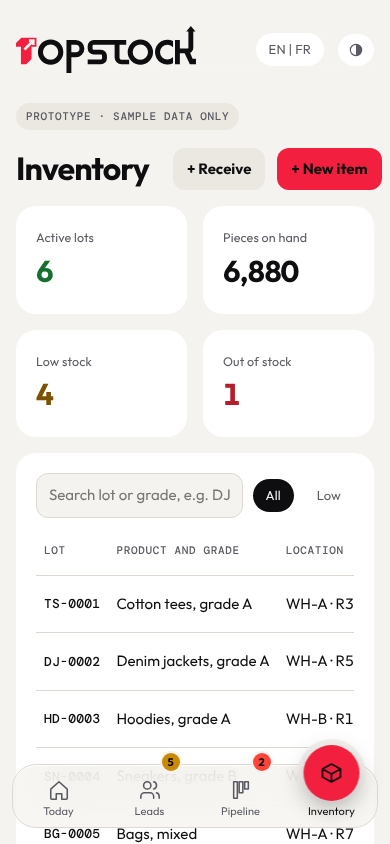
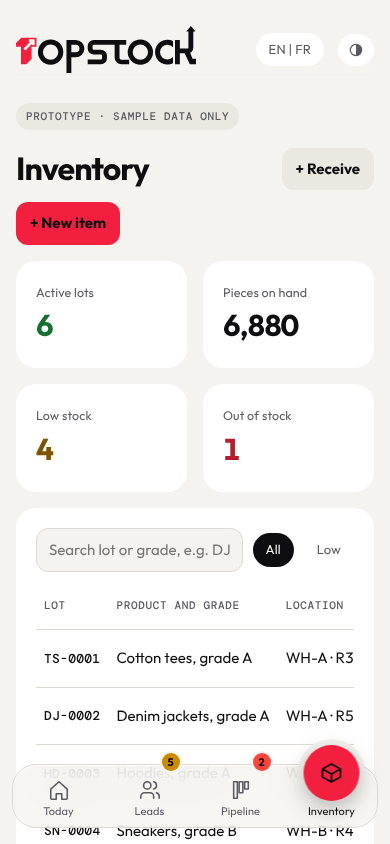
Prototype v4.3: labelled stock status, phone header wrap, units
Claude-Session: https://claude.ai/code/session_017iY13emXgm4frkkmSZrEnt

diff --git a/docs/prototype/topstock-crm-prototype.html b/docs/prototype/topstock-crm-prototype.html
@@ -200,6 +200,7 @@ td.n .sb{margin-left:auto}
 .proto{padding:5px 10px;margin-bottom:18px}
 .sign{margin:28px 4px 0;color:var(--t2);font-size:.875rem}
 .btn{white-space:nowrap}
+#v-inv>div:first-child{flex-wrap:wrap;row-gap:10px} /* title row wraps instead of overflowing while the font loads */
 /* small text on red is TopStock Black (brand rule; white on red is 3.4:1) */
 .outs .chip.c4.on,.nb{color:var(--onred)}
 #v-inv .wrap table{min-width:640px}#v-inv td:nth-child(2),#v-inv td:nth-child(3){white-space:nowrap} /* scroll the stock table inside its card on phones instead of squeezing the grade column */
@@ -309,7 +310,7 @@ const L=[
 const tm=z=>new Date().toLocaleTimeString([], {timeZone:z,hour:'2-digit',minute:'2-digit'});
 const ini=n=>n.split(' ').map(x=>x[0]).join('');
 const TLs={};let sel=0,tab='Summary';
-const tl=i=>TLs[i]||(TLs[i]=[['Email','Sent price list and MOQ terms','Yesterday'],['Call','Connected · 6 min · interested in samples','2 days ago'],['Note','Prefers cartons, payment on delivery','Last week']]);
+const tl=i=>TLs[i]||(TLs[i]=[['Email','Sent price list and MOQ terms','Yesterday'],['Call','Connected · 6 min · interested in samples','2 days ago'],['Note','Prefers mixed lots, payment on delivery','Last week']]);
 function renderList(){$('#list').innerHTML='<h2>Leads <span class="muted">· 30,000</span></h2>'+L.map((l,i)=>`<div class="row ${i==sel?'sel':''}" onclick="pick(${i})"><div class="av ${l.t}">${ini(l.n)}</div><div style="flex:1"><b>${l.n}</b><br><small>${l.c}</small></div><span class="badge ${l.t}"><span class="dot"></span>${l.t}</span></div>`).join('')}
 function renderProf(){const l=L[sel];
 $('#prof').innerHTML=`<div style="display:flex;gap:16px;align-items:center"><div class="av" style="width:64px;height:64px;font-size:1.25rem">${ini(l.n)}</div><div style="flex:1"><div style="font-size:1.5rem;font-weight:700;letter-spacing:-.02em">${l.n}</div><div class="muted">${l.r} · ${l.c}</div><div class="muted">${l.loc} · local time ${tm(l.tz)}</div></div><span class="badge ${l.t}"><span class="dot"></span>${l.t}</span></div>
@@ -321,7 +322,7 @@ if(tab=='Summary')b.innerHTML=`${stp(l)}<div class="grid g2" style="grid-templat
 else if(tab=='Timeline')b.innerHTML=`<input id="nt" placeholder="Add a note…"><button class="btn" onclick="addNote()">Add note</button><div class="tl" style="margin-top:16px">${tl(sel).map(x=>`<div><b>${x[0]}</b> · ${x[1]}<br><small class="muted">${x[2]}</small></div>`).join('')}</div>`;
 else if(tab=='Email')b.innerHTML=`<p class="muted" style="margin:0 0 10px;font-size:.8125rem">Opens in your mail app and is logged to the timeline. No mailbox sync (no Google Workspace).</p><input value="${l.e}" readonly><input id="sub" value="Re: Price list"><textarea id="bd">Hi ${l.n.split(' ')[0]},\n\nYes, we can confirm availability. Sending the updated quote today.\n\nBest,\nHaider · TopStock Wholesale</textarea><button class="btn" onclick="sendMail()">Open in Mail and log</button>`;
 else if(tab=='Calls')b.innerHTML=`<div class="tl">${tl(sel).filter(x=>x[0]=='Call').map(x=>`<div><b>${x[0]}</b> · ${x[1]}<br><small class="muted">${x[2]}</small></div>`).join('')}</div><button class="btn" onclick="dial(this)">Call ${l.p}</button>`;
-else{const it=P.find(p=>l.want.startsWith(p.n.split(',')[0]))||P[1],a=it.h-it.r;b.innerHTML=`<div class="card" style="background:var(--bg)"><small class="muted">Interested in</small><div style="font-weight:600;font-size:1.0625rem">${l.want}</div><div style="margin-top:8px">${it.n}: <b class="${a>=10?'stock-ok':'stock-lo'}">${a.toLocaleString('en')} pieces available</b></div><small class="muted">Live from Inventory · reserve when the quote is accepted</small></div>${l.direct?`<div class="card" style="background:var(--bg);margin-top:12px"><small class="muted">Fulfilment</small><div style="font-weight:600">Direct from source</div><small class="muted">Ships from the supplier to the client, not from our warehouse. No stock is reserved.</small></div>`:`<button class="btn" style="margin-top:12px" onclick="toast('Prototype: stock reserved for this deal')">Reserve stock</button>`}`}}
+else{const it=P.find(p=>l.want.startsWith(p.n.split(',')[0]))||P[1],a=it.h-it.r;b.innerHTML=`<div class="card" style="background:var(--bg)"><small class="muted">Interested in</small><div style="font-weight:600;font-size:1.0625rem">${l.want}</div><div style="margin-top:8px">${it.n}: <b class="${a==0?'stock-no':a<it.lo?'stock-lo':'stock-ok'}">${a.toLocaleString('en')} ${it.u||'pieces'} available · ${a==0?'Out':a<it.lo?'Low':'In stock'}</b></div><small class="muted">Live from Inventory · reserve when the quote is accepted</small></div>${l.direct?`<div class="card" style="background:var(--bg);margin-top:12px"><small class="muted">Fulfilment</small><div style="font-weight:600">Direct from source</div><small class="muted">Ships from the supplier to the client, not from our warehouse. No stock is reserved.</small></div>`:`<button class="btn" style="margin-top:12px" onclick="toast('Prototype: stock reserved for this deal')">Reserve stock</button>`}`}}
 function pick(i){sel=i;tab='Summary';renderList();renderProf()}
 function setTab(t){tab=t;document.querySelectorAll('#tabs button').forEach(b=>b.classList.toggle('on',b.textContent==t));movePill(true);tabBody()}
 function addNote(){const v=$('#nt').value.trim();if(!v)return;const k=sel;tl(k).unshift(['Note',v,'Just now']);tabBody();toast('Note added',()=>{tl(k).shift();if(sel==k)tabBody()})}
@@ -342,7 +343,7 @@ $('#plost').textContent='Closed/lost this month: 2 · reasons: price (1), timing
 function flip(mut){const before=new Map([...document.querySelectorAll('#kan .kc')].map(e=>[e.dataset.i,e.getBoundingClientRect()]));mut();if(RM.matches)return;document.querySelectorAll('#kan .kc').forEach(e=>{const b=before.get(e.dataset.i);if(!b)return;const a=e.getBoundingClientRect(),dx=b.left-a.left,dy=b.top-a.top;if(dx||dy)e.animate([{transform:`translate(${dx}px,${dy}px)`},{transform:'none'}],{duration:450,easing:'cubic-bezier(.32,.72,0,1)'})})}
 function advance(i){const l=L[i],c=SG.indexOf(l.s);if(c<0||c>=SG.length-1)return;const prev=l.s;flip(()=>{l.s=SG[c+1];l.d=0;l.stale=0;renderKan()});if(sel==i)renderProf();toast(`${l.n.split(' ')[0]} moved to ${l.s}`,()=>{flip(()=>{l.s=prev;renderKan()});if(sel==i)renderProf()})}
 
-const P=[{n:'Cotton tees, grade A',s:'TS-0001',loc:'WH-A · R3',h:4200,r:600,lo:800},{n:'Denim jackets, grade A',s:'DJ-0002',loc:'WH-A · R5',h:640,r:300,lo:400},{n:'Hoodies, grade A',s:'HD-0003',loc:'WH-B · R1',h:360,r:240,lo:200},{n:'Sneakers, grade B',s:'SN-0004',loc:'WH-B · R4',h:180,r:120,lo:200},{n:'Bags, mixed',s:'BG-0005',loc:'WH-A · R7',h:0,r:0,lo:150},{n:'Knitwear, winter',s:'KW-0006',loc:'WH-C · R2',h:1500,r:200,lo:300}];
+const P=[{n:'Cotton tees, grade A',s:'TS-0001',loc:'WH-A · R3',h:4200,r:600,lo:800},{n:'Denim jackets, grade A',s:'DJ-0002',loc:'WH-A · R5',h:640,r:300,lo:400},{n:'Hoodies, grade A',s:'HD-0003',loc:'WH-B · R1',h:360,r:240,lo:200},{n:'Sneakers, grade B',s:'SN-0004',u:'pairs',loc:'WH-B · R4',h:180,r:120,lo:200},{n:'Bags, mixed',s:'BG-0005',loc:'WH-A · R7',h:0,r:0,lo:150},{n:'Knitwear, winter',s:'KW-0006',loc:'WH-C · R2',h:1500,r:200,lo:300}];
 function renderInv(){const f=($('#q').value||'').toLowerCase();
 $('#ik').innerHTML=[['Active lots',P.length,'ok'],['Pieces on hand',P.reduce((a,p)=>a+p.h,0).toLocaleString('en')],['Low stock',P.filter(p=>p.h-p.r<p.lo).length,'warm'],['Out of stock',P.filter(p=>p.h==0).length,'hot']].map(k=>`<div class="card kpi"><small>${k[0]}</small><b class="t-${k[2]||'n'}">${k[1]}</b></div>`).join('');
 $('#rows').innerHTML=P.filter(p=>(p.n+p.s).toLowerCase().includes(f)).map(p=>{const a=p.h-p.r,c=p.h==0?'no':a<p.lo?'lo':'ok',t=p.h==0?'Out':a<p.lo?'Low':'In stock';return`<tr><td class="code" translate="no">${p.s}</td><td>${p.n}</td><td>${p.loc}</td><td class="n">${p.h.toLocaleString('en')}</td><td class="n">${p.r.toLocaleString('en')}</td><td class="n"><b>${a.toLocaleString('en')}</b><div class="sb"><i style="width:${Math.min(100,a/(p.lo*3)*100)}%;background:var(--${c=='ok'?'ok':c=='lo'?'wa':'dg'})"></i></div></td><td><span class="badge ${c=='ok'?'ok':c=='lo'?'warm':'hot'}"><span class="dot"></span>${t}</span></td></tr>`}).join('')}

diff --git a/docs/evidence/prototype-v4/audit.md b/docs/evidence/prototype-v4/audit.md
@@ -1,6 +1,6 @@
 # CRM prototype v4: brand pack applied (7 Oct 2026)
 
-Artifact: https://claude.ai/artifact/3ppCxqmfgKHs5uRidvcNv6 (version 5). Source: `docs/prototype/topstock-crm-prototype.html`.
+Artifact: https://claude.ai/artifact/3ppCxqmfgKHs5uRidvcNv6 (version 6). Source: `docs/prototype/topstock-crm-prototype.html`.
 Brand source: TopStock Brand Pack v9 (essentials copied to `docs/brand/`: README, tokens, logo SVGs, fonts with OFL licence).
 This is the throwaway prototype, not the Next.js app. The app gets these choices through `DESIGN.md` on Day 1.
 
@@ -45,11 +45,13 @@ unused `--redt` token removed; logo SVG no longer has both `role="img"` and `ari
 
 ## Checks
 
-- Screenshots in this folder (25, all retaken on version 5, after the advisor fixes): 1440 light and dark (all four screens, call panel
+- Screenshots in this folder (25, taken on version 5 after the advisor fixes; call-1440-light, leads-stock-1440-dark and v3-390-light retaken on version 6): 1440 light and dark (all four screens, call panel
   light and dark, lead Stock tab), Today and Inventory at 390, 768, 1024, 1280 and 1728 light, Today and Leads at 390 and 1280 in French dark.
   Fonts loaded from the brand pack files (Google Fonts is not on this VM's network list; the published page loads the same 400/700 weights from Google Fonts).
 - Browser: the VM's preinstalled Chromium 1194 through a scratch config, not the pinned 1247 build (missing in this VM). WebKit was not run.
-- No horizontal scroll at any captured width (scrollWidth equals the viewport at 390, 768, 1024, 1280, 1728). Found and fixed on the way: the search box showed on phones and pushed
+- No horizontal scroll at any captured width with the brand fonts loaded (scrollWidth equals the viewport at 390, 768, 1024, 1280, 1728).
+  With the fonts blocked (fallback font, as on a first load before Outfit arrives): 390 on all four screens in EN and FR, after the
+  Inventory title row was allowed to wrap (advisor round 3 found 402 px). Found and fixed on the way: the search box showed on phones and pushed
   the page to 551 px; the inventory buttons wrapped; the stock tiles stacked one per row; the stock table squeezed the grade column.
 - Console: no errors except the local server's missing favicon.
 - No em dashes in the page.
@@ -60,5 +62,9 @@ unused `--redt` token removed; logo SVG no longer has both `role="img"` and `ari
    font stack (Master Plan lines 137 and 169, apple-design-audit item 10); Day 1's `DESIGN.md`, the CLAUDE.md design line and audit
    item 10 change to match. Fonts are self-hosted through next/font (no runtime Google Fonts request), only Outfit 400/700 and DM Mono 500.
 2. **Stock is sold by the piece.** Sample data changed from bales to pieces (pairs for sneakers). Inventory counts pieces.
+
+Advisor round 3 (CHANGES NEEDED), fixed in version 6: the lead Stock tab coloured availability with a fixed threshold of 10, so lots the
+Inventory screen calls Low showed green with no label; it now uses each lot's low-stock level and says the status in words
+("340 pieces available · Low"). A sample note still said "cartons"; sneakers now show "pairs" in the Stock tab.
 
 French still covers headings and the dock only; full EN/FR comes with next-intl in the real build.

diff --git a/docs/log.md b/docs/log.md
@@ -26,3 +26,4 @@
 | 2026-10-07 | builder | Advisor round 1 on prototype v4: CHANGES NEEDED (small white text on red, prefers-contrast override lost, font conflict not surfaced, evidence gaps, README em dash, unused token, logo ARIA). All fixed; artifact republished as version 4 |
 | 2026-10-07 | Haider | Decisions: (1) the real app adopts the brand palette and fonts (Outfit 400/700, DM Mono 500, self-hosted via next/font); DESIGN.md, the CLAUDE.md design line and apple-design-audit item 10 to be updated on Day 1. (2) Stock is sold by the piece, not in bales or cartons |
 | 2026-10-07 | builder | Prototype version 5: sample stock in pieces; all 25 evidence screenshots retaken after the advisor round-1 fixes (advisor round 2 had found them stale), now including 1024 |
+| 2026-10-07 | builder | Advisor round 3 fixes, prototype version 6: lead Stock tab status follows each lot's low-stock level and is labelled in words; Inventory title row wraps so phones never scroll sideways before the brand font loads; last carton wording removed; sneakers counted in pairs |
